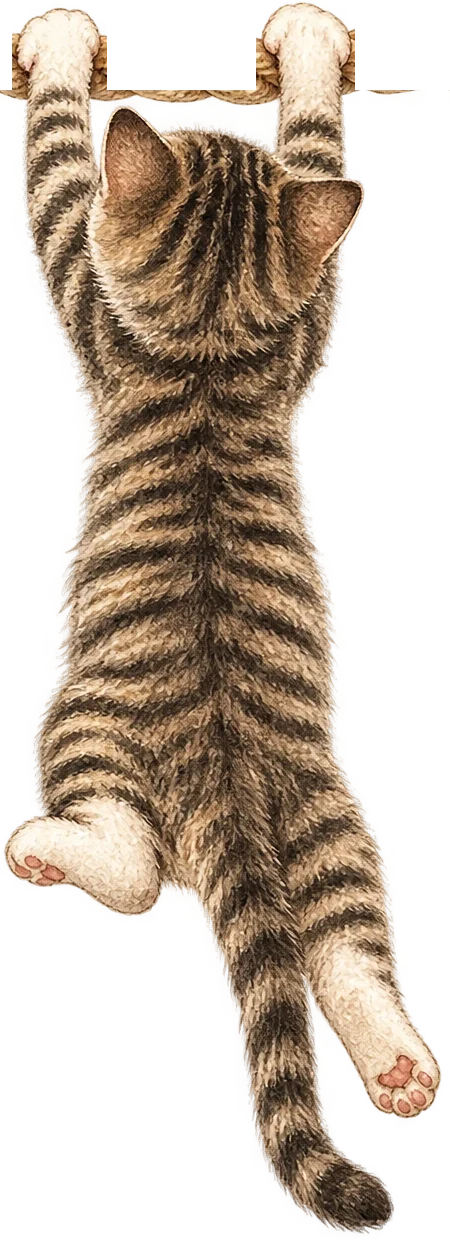
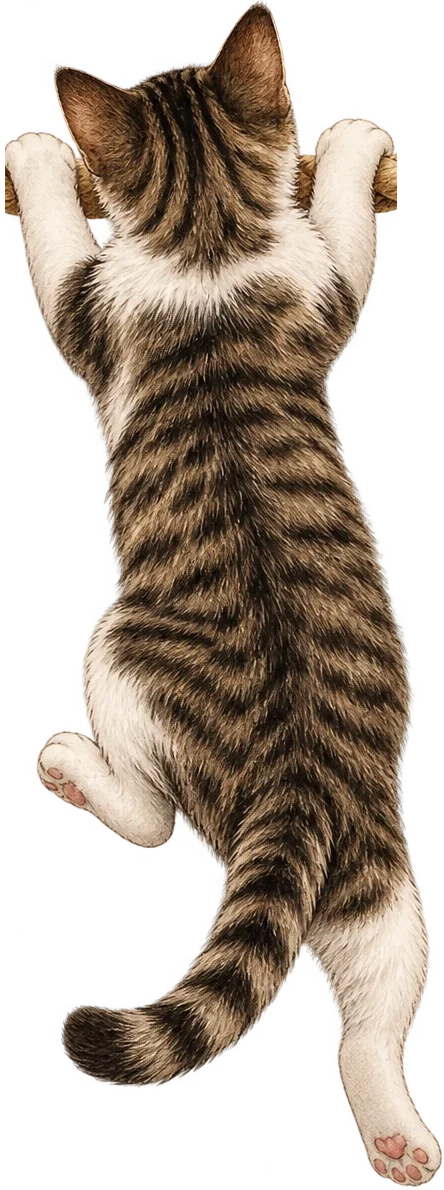
Troca o gatinho pendurado pela versão com a cabeça acima da corda

diff --git a/index.html b/index.html
@@ -206,10 +206,10 @@ body.travado :is(.camada,.petala){animation-play-state:paused}
 
 /* ---------- corda na emenda entre a janela e a nossa história (arte/corda.webp, 1000x78, fundo transparente) ---------- */
 .corda{position:relative;height:0;z-index:2}
-.gato-corda{position:absolute;left:50%;top:0;width:min(24%,120px);translate:-40.4% -3.5%;transform-origin:40.4% 3.5%;animation:pendurado 4s ease-in-out infinite alternate;pointer-events:none} /* arte/gato-corda.webp (450x1242): patinhas em 40.4% x 3.5%, presas na corda */
+.gato-corda{position:absolute;left:50%;top:0;width:min(24%,120px);translate:-44.4% -14.9%;transform-origin:44.4% 14.9%;animation:pendurado 4s ease-in-out infinite alternate;pointer-events:none} /* arte/gato-corda.webp (444x1190): patinhas em 44.4% x 14.9%, presas na corda; a cabeça fica acima dela */
 @keyframes pendurado{from{transform:rotate(-3deg)}to{transform:rotate(3deg)}}
 @media (prefers-reduced-motion:reduce){.gato-corda{animation:none}}
-.historia{padding-top:calc(min(24vw,120px) * 2.76 + 32px)} /* espaço para o gatinho pendurado acima do título */
+.historia{padding-top:calc(min(24vw,120px) * 2.68 * .851 + 32px)} /* espaço para o gatinho pendurado acima do título */
 .corda::before{content:"";position:absolute;left:0;right:0;top:0;aspect-ratio:1000/78;transform:translateY(-50%);background:url(arte/corda.webp) center/100% 100% no-repeat;pointer-events:none}
 
 /* ---------- contagem: a janela ---------- */
